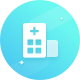
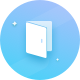
新增展示机构服务者

diff --git a/src/views/common/organ/servantList.vue b/src/views/common/organ/servantList.vue
@@ -1,79 +1,126 @@
 <template>
   <div>
-    <div class="sreach-bar">
-      <input type="text" placeholder="输入医生名字搜索">
+    <div class="search-bar">
+      <input type="text" placeholder="输入医生名字搜索" v-model="searchData.search" @keyup.enter="getServantList" @keyup="inputKeywords">
     </div>
     <div class="container">
       <!-- 标签 -->
-      <div class="tags-panel">
+      <div class="tags-panel" v-if="tagList.length > 0">
         <div class="title">服务者标签</div>
-        <checker v-model="tag" :radio-required="true" default-item-class="tags-item" selected-item-class="tags-item-selected">
-          <checker-item value="1">家</checker-item>
-          <checker-item value="2">公司</checker-item>
-          <checker-item value="3">其他</checker-item>
-          <checker-item value="4">安德森</checker-item>
-          <checker-item value="5">阿迪</checker-item>
-          <checker-item value="6">老哥</checker-item>
-          <checker-item value="7">蛤蛤</checker-item>
-          <checker-item value="8">嘻嘻</checker-item>
-          <checker-item value="9">其他</checker-item>
+        <checker v-model="searchData.tagId" :radio-required="true" @on-change="getServantList" default-item-class="tags-item" selected-item-class="tags-item-selected">
+          <checker-item :value="0">全部</checker-item>
+          <checker-item v-for="(item, index) in tagList" :key="index" :value="item.TagID">{{item.TagName}}</checker-item>
         </checker>
       </div>
       <!-- 推荐医师 -->
       <div class="servant-panel servant-panel_service">
         <div class="servant-panel_title">推荐医师</div>
-        <div class="weui-list_item">
-          <div class="avatar">
-            <img src="https://alioss.g-cores.com/uploads/user/d95bb3d6-38e4-4f24-9100-9b05f6a74c89_normal.jpg" alt="">
-          </div>
-          <div class="mid">
-            <div class="title">陈医生</div>
-            <div class="describe text-overflow-1">专业老中医</div>
-            <div style="margin-bottom: 8px;display: flex;align-items: center;">
-              <i class="iconfont icon-star1"></i><span class="range">5.0</span><span class="times">91次服务</span>
-            </div>
-            <div class="tags"><span>123</span><span>很不错哦</span></div>
-          </div>
-        </div>
-        <div class="weui-list_item">
-          <div class="avatar">
-            <img src="https://alioss.g-cores.com/uploads/user/d95bb3d6-38e4-4f24-9100-9b05f6a74c89_normal.jpg" alt="">
-          </div>
-          <div class="mid">
-            <div class="title">陈医生</div>
-            <div class="describe text-overflow-1">专业老中医</div>
-            <div style="margin-bottom: 8px;display: flex;align-items: center;">
-              <i class="iconfont icon-star1"></i><span class="range">5.0</span><span class="times">91次服务</span>
-            </div>
-            <div class="tags"><span>123</span><span>很不错哦</span></div>
-          </div>
-        </div>
-        <!-- <template v-for="(item, index) in itemList">
-          <div class="weui-list_item" :key="index" @click="toItem(item.ID)">
-            <div class="icon">
-              <img :src="item.UseType | ItemImageByUseType" alt="">
+        <template v-if="servantList.length > 0" v-for="(item, index) in servantList">
+          <div class="weui-list_item" :key="index" @click="toDetail(item.ViewId)">
+            <div class="avatar">
+              <img :src="item.Avatar | transformImgUrl" alt="">
             </div>
             <div class="mid">
               <div class="title">{{item.Name}}</div>
-              <div class="describe text-overflow-1">{{item.Content}}</div>
+              <!-- <div class="describe text-overflow-1">专业老中医</div> -->
+              <div style="margin-bottom: 8px;display: flex;align-items: center;">
+                <i class="iconfont icon-star1"></i><span class="range">{{item.Score}}</span><span class="times">{{item.ServiceNum}}次服务</span>
+              </div>
+              <div class="tags"><span v-for="(item, index) in item.Tags" :key="index">{{item}}</span></div>
             </div>
           </div>
-        </template> -->
+        </template>
+        <div v-if="servantList.length === 0" class="empty-box">
+          没找到相关服务者
+        </div>
+        <load-more v-if="isShowLoadMore" :show-loading="LoadMore" :tip="tips" style="color:#666"></load-more>
       </div>
     </div>
   </div>
 </template>
 
 <script>
-import { Checker, CheckerItem } from 'vux'
+import { Checker, CheckerItem, LoadMore } from 'vux'
 export default {
   components: {
     Checker,
-    CheckerItem
+    CheckerItem,
+    LoadMore
   },
   data () {
     return {
-      tag: ''
+      tagList: [],
+      servantList: [],
+      searchData: {
+        index: 1,
+        size: 10,
+        useType: +this.$route.query.useType,
+        tagId: 0,
+        search: ''
+      },
+      isShowLoadMore: false,
+      LoadMore: false,
+      lastPage: false,
+      tips: '加载中'
+    }
+  },
+  computed: {
+    useType () {
+      return +this.$route.query.useType
+    }
+  },
+  mounted () {
+    const that = this
+    this.getTagList()
+    this.getServantList()
+    this.isShowLoadMoreBar()
+    window.onscroll = function () {
+      if (document.documentElement.clientHeight + document.documentElement.scrollTop >= document.documentElement.scrollHeight - 50) {
+        if (that.lastPage || that.LoadMore) return false
+        that.LoadMore = true
+        that.searchData.index++
+        that.tips = '加载中'
+        that.listLoadMore()
+      }
+    }
+  },
+  methods: {
+    isShowLoadMoreBar () {
+      // 判断是否显示加载更多
+      if (document.documentElement.scrollHeight > document.documentElement.clientHeight) {
+        this.isShowLoadMore = true
+      }
+    },
+    inputKeywords () {
+      if (this.searchData.search === '') {
+        this.getServantList()
+      }
+    },
+    toDetail (ViewId) {
+      this.$router.push(`/servant/service/${ViewId}`)
+    },
+    async getTagList () {
+      const res = await this.$http.get(`/UseType/ShopTag/List`)
+      if (res.data.Code === 100000 && res.data.Data) {
+        this.tagList = res.data.Data.ServantTagResponses
+      }
+    },
+    async getServantList () {
+      const res = await this.$http.get(`/UseType/ShopMedicalCare/List`, this.searchData)
+      if (res.data.Code === 100000 && res.data.Data) {
+        this.servantList = res.data.Data.MedicalCareResponses
+        this.isShowLoadMoreBar()
+      }
+    },
+    async listLoadMore () {
+      const res = await this.$http.get(`/UseType/ShopMedicalCare/List`, this.searchData)
+      if (res.data.Code === 100000 && res.data.Data) {
+        let listLength = res.data.Data.MedicalCareResponses.length
+        this.servantList.push(...res.data.Data.MedicalCareResponses)
+        this.LoadMore = false
+        this.lastPage = !Boolean(listLength)
+        this.tips = listLength === 0 ? '没有更多了' : '加载中...'
+      }
     }
   }
 }
@@ -99,9 +146,10 @@ export default {
     color: #3ecccc;
   }
   .tags-item {
+    display: flex;
+    align-items: center;
     margin: 0 20px 15px 0;
     height: 25px;
-    line-height: 25px;
     font-size: 13px;
     color: #bbb;
     text-align: center;
@@ -193,7 +241,8 @@ export default {
     }
   }
 }
-.sreach-bar {
+.search-bar {
+  z-index: 999;
   position: fixed;
   top: 0;
   left: 0;

diff --git a/src/views/common/organ/servantIndex.vue b/src/views/common/organ/servantIndex.vue
@@ -48,13 +48,19 @@
     <!-- 机构介绍 -->
     <div class="organ-info">
       <div class="item" @click="showDialog">
-        <img src="@/assets/images/organ-1.png" alt="">
+        <img src="@/assets/images/organ-4.png" alt="">
         <div class="text">机构介绍</div>
       </div>
+      <template v-for="(item, index) in aliasList">
+        <div class="item" @click="toList(item.UseType)" :key="index">
+          <img :src="item.UseType | aliasImgByUsetype" alt="">
+          <div class="text">{{item.Name}}</div>
+        </div>
+      </template>
     </div>
     <!-- 推荐医师 -->
     <div class="servant-panel servant-panel_service">
-      <div class="servant-panel_title">推荐医师<router-link to="/organ/servantList" class="more">更多</router-link></div>
+      <div class="servant-panel_title">推荐医师</div>
       <div class="weui-list_item">
         <div class="avatar">
           <img src="https://alioss.g-cores.com/uploads/user/d95bb3d6-38e4-4f24-9100-9b05f6a74c89_normal.jpg" alt="">
@@ -119,7 +125,22 @@ export default {
     return {
       itemList: [],
       Agreement: {},
+      aliasList: [],
       showHideOnBlur: false
+    }
+  },
+  filters: {
+    aliasImgByUsetype (type) {
+      switch (type) {
+        case 1:
+          return require('@/assets/images/organ-1.png')
+        case 2:
+          return require('@/assets/images/organ-2.png')
+        case 3:
+          return require('@/assets/images/organ-3.png')
+        default:
+          return require('@/assets/images/organ-1.png')
+      }
     }
   },
   computed: {
@@ -130,30 +151,28 @@ export default {
   },
   created () {
     // this.getItemTemplate()
+    this.getAlias()
   },
   methods: {
-    async getItemTemplate () {
-      const res = await this.$http.get('/ItemTemplate')
-      if (res.data.Code === 100000) {
-        this.itemList = res.data.Data
-      } else {
-        this.$vux.toast.text(res.data.Msg)
+    showDialog () {
+      this.showHideOnBlur = true
+    },
+    toList (useType) {
+      this.$router.push(`/organ/servantList?useType=${useType}`)
+    },
+    // 服务流程列表
+    async getAlias () {
+      const res = await this.$http.get(`/UseType/GetAlias/List`)
+      if (res.data.Code === 100000 && res.data.Data) {
+        this.aliasList = res.data.Data
       }
     },
+    // 机构介绍
     async getShopAgreement () {
       const res = await this.$http.get(`/ShopAgreement?protocalType=20&itemID=0`)
       if (res.data.Code === 100000 && res.data.Data) {
         this.Agreement = res.data.Data
       }
-    },
-    showDialog () {
-      this.showHideOnBlur = true
-    },
-    toItem (id) {
-      this.$router.push(`/organ/item/${id}`)
-    },
-    go (url) {
-      this.$router.push(url)
     }
   }
 }
@@ -300,10 +319,12 @@ export default {
 .organ-info {
   display: flex;
   text-align: center;
-  margin: 12px;
+  flex-wrap: wrap;
   justify-content: space-between;
+  margin: 12px 12px 0 12px;
   .item {
     padding: 10px 0;
+    margin-bottom: 10px;
     line-height: 1;
     border-radius: 4px;
     width: 48%;

diff --git a/src/router/routers/common.js b/src/router/routers/common.js
@@ -27,28 +27,32 @@ export default [
     path: '/organ/item',
     component: _import('/common/organ/itemIndex'),
     meta: {
-      title: '机构首页'
+      title: '机构首页',
+      notGetNews: true
     }
   },
   {
     path: '/organ/item/:id',
     component: _import('/common/organ/itemDetail'),
     meta: {
-      title: '服务项详情'
+      title: '服务项详情',
+      notGetNews: true
     }
   },
   {
     path: '/organ/servant',
     component: _import('/common/organ/servantIndex'),
     meta: {
-      title: '机构首页'
+      title: '机构首页',
+      notGetNews: true
     }
   },
   {
     path: '/organ/servantList',
     component: _import('/common/organ/servantList'),
     meta: {
-      title: '机构首页'
+      title: '机构首页',
+      notGetNews: true
     }
   },
   {

diff --git a/src/components/common/timeCountDown/index.vue b/src/components/common/timeCountDown/index.vue
@@ -27,7 +27,7 @@ export default {
   },
   methods: {
     getCountDown (startTime) {
-      let t = 1000 * 60 * 60 * (24 * 3 - 8) + startTime - Date.parse(new Date())
+      let t = 1000 * 60 * 60 * 24 + startTime - Date.parse(new Date())
       let seconds = Math.floor((t / 1000) % 60)
       let minutes = Math.floor((t / 1000 / 60) % 60)
       let hours = Math.floor((t / (1000 * 60 * 60)) % 24)

diff --git a/src/views/common/organ/itemIndex.vue b/src/views/common/organ/itemIndex.vue
@@ -48,7 +48,7 @@
     <!-- 机构介绍 -->
     <div class="organ-info">
       <div class="item" @click="showDialog">
-        <img src="@/assets/images/organ-1.png" alt="">
+        <img src="@/assets/images/organ-4.png" alt="">
         <div class="text">机构介绍</div>
       </div>
       <div class="item" @click="close">

diff --git a/src/router/index.js b/src/router/index.js
@@ -51,6 +51,11 @@ router.beforeEach((to, from, next) => {
   }
 
   if (!newMsgTimer) {
+    if (to.meta.notGetNews) {
+      clearInterval(newMsgTimer)
+      next()
+      return false
+    }
     newMsgTimer = setInterval(() => {
       store.dispatch('getHaveNewMsg')
     }, 5000)
